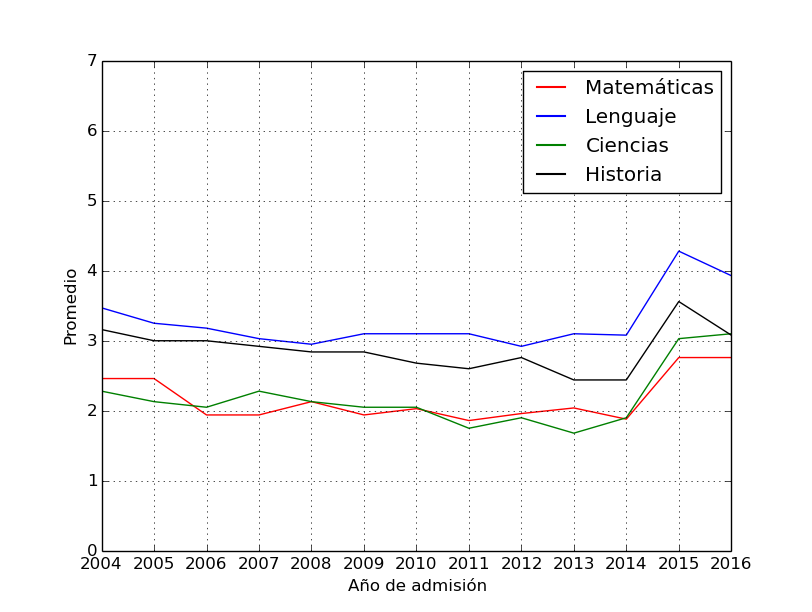
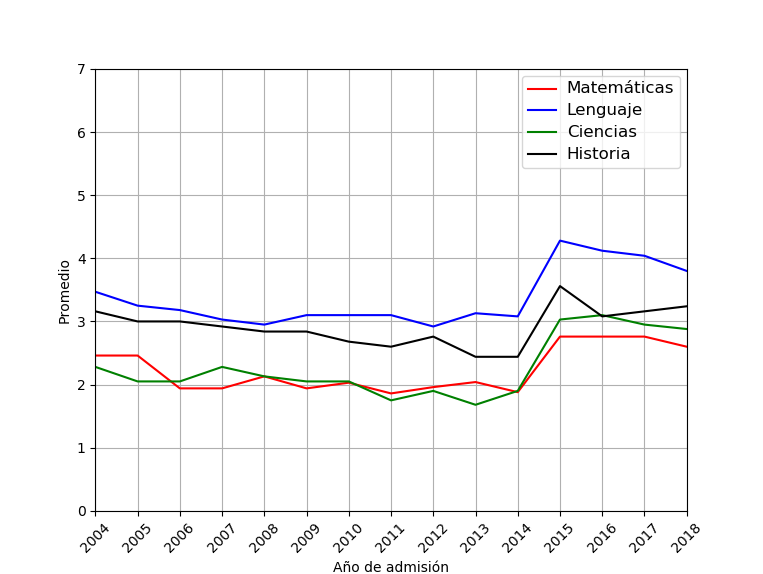
Actualizar hasta admisión 2018

diff --git a/notas.html b/notas.html
@@ -13,6 +13,12 @@ function convertir(){
 	var puntajesMatematicas = [];
 	var maximoAlcanzadoMatematicas = [];
 	var maximoTeoricoMatematicas = [];
+	puntajesMatematicas["2018"] = [850, 836, 822, 809, 795, 781, 770, 760, 752, 745, 737, 730, 725, 719, 713, 708, 703, 698, 694, 689, 685, 680, 676, 672, 668, 664, 660, 656, 652, 648, 644, 640, 636, 631, 627, 623, 619, 614, 610, 605, 601, 596, 591, 586, 581, 575, 570, 564, 558, 551, 544, 536, 527, 518, 507, 495, 481, 465, 448, 429, 408, 386, 363, 338, 312, 286, 259, 233, 223, 212, 202, 192, 181, 171, 160];
+	maximoAlcanzadoMatematicas["2018"] = 75;
+	maximoTeoricoMatematicas["2018"] = 75;
+	puntajesMatematicas["2017"] = [850, 833, 816, 799, 782, 766, 756, 747, 738, 732, 725, 718, 713, 707, 702, 696, 692, 688, 682, 678, 673, 669, 664, 660, 656, 651, 647, 642, 638, 634, 629, 625, 620, 616, 611, 606, 602, 597, 593, 587, 583, 578, 572, 568, 562, 556, 550, 543, 537, 530, 523, 514, 504, 494, 482, 469, 454, 439, 421, 403, 382, 360, 337, 312, 288, 264, 238, 212, 204, 197, 189, 181, 173, 165, 158];
+	maximoAlcanzadoMatematicas["2017"] = 75;
+	maximoTeoricoMatematicas["2017"] = 75;
 	puntajesMatematicas["2016"] = [850, 835, 819, 804, 789, 773, 762, 751, 743, 735, 727, 719, 713, 707, 702, 696, 691, 686, 681, 677, 672, 668, 662, 658, 653, 649, 646, 641, 637, 633, 628, 624, 620, 616, 612, 607, 603, 597, 593, 589, 584, 579, 573, 569, 563, 558, 552, 546, 539, 532, 525, 516, 507, 496, 485, 472, 458, 442, 425, 406, 386, 364, 342, 318, 294, 268, 244, 220, 211, 202, 194, 185, 176, 167, 159];
 	maximoAlcanzadoMatematicas["2016"] = 75;
 	maximoTeoricoMatematicas["2016"] = 75;
@@ -56,15 +62,21 @@ function convertir(){
 	var puntajesLenguaje = [];
 	var maximoAlcanzadoLenguaje = [];
 	var maximoTeoricoLenguaje = [];
+	puntajesLenguaje["2018"] = [850, 839, 829, 818, 807, 796, 786, 775, 758, 744, 729, 716, 704, 692, 684, 674, 663, 654, 646, 637, 628, 620, 612, 604, 596, 588, 580, 573, 566, 558, 551, 544, 537, 530, 523, 517, 510, 503, 496, 489, 481, 474, 466, 458, 450, 442, 433, 424, 415, 405, 395, 385, 374, 362, 349, 336, 321, 306, 290, 273, 256, 237, 218, 212, 205, 199, 193, 187, 181, 175, 168, 162, 156];
+	maximoAlcanzadoLenguaje["2018"] = 73;
+	maximoTeoricoLenguaje["2018"] = 75;
+	puntajesLenguaje["2017"] = [850, 837, 824, 812, 799, 786, 773, 760, 743, 726, 711, 697, 684, 672, 660, 650, 639, 630, 620, 612, 603, 595, 586, 579, 571, 563, 556, 549, 541, 534, 527, 521, 516, 508, 502, 494, 487, 480, 473, 465, 458, 451, 443, 436, 427, 419, 410, 402, 393, 383, 374, 364, 353, 342, 331, 318, 305, 292, 276, 260, 243, 227, 221, 214, 208, 201, 195, 188, 182, 176, 169, 163, 156];
+	maximoAlcanzadoLenguaje["2017"] = 73;
+	maximoTeoricoLenguaje["2017"] = 75;
 	puntajesLenguaje["2016"] = [850, 837, 824, 811, 798, 785, 772, 759, 746, 721, 706, 692, 680, 668, 657, 645, 634, 624, 615, 606, 597, 590, 582, 574, 567, 559, 551, 543, 537, 529, 521, 514, 507, 501, 493, 486, 480, 472, 465, 459, 452, 446, 439, 431, 425, 416, 409, 403, 394, 385, 375, 365, 355, 344, 332, 319, 306, 294, 281, 264, 248, 231, 212, 206, 201, 195, 189, 184, 178, 173, 167, 161, 156];
 	maximoAlcanzadoLenguaje["2016"] = 73;
-	maximoTeoricoLenguaje["2016"] = 80;
+	maximoTeoricoLenguaje["2016"] = 75;
 	puntajesLenguaje["2015"] = [850, 834, 818, 802, 786, 770, 755, 729, 710, 694, 681, 669, 657, 646, 636, 626, 616, 607, 598, 591, 582, 574, 568, 560, 552, 546, 539, 531, 525, 518, 512, 505, 498, 492, 485, 477, 471, 464, 457, 450, 442, 436, 428, 420, 411, 404, 395, 386, 377, 367, 358, 347, 336, 325, 312, 299, 286, 273, 257, 242, 227, 211, 206, 201, 196, 191, 186, 180, 175, 170, 165, 160, 155];
 	maximoAlcanzadoLenguaje["2015"] = 73;
-	maximoTeoricoLenguaje["2015"] = 80;
+	maximoTeoricoLenguaje["2015"] = 75;
 	puntajesLenguaje["2014"] = [850, 839, 829, 818, 807, 797, 786, 775, 762, 749, 736, 725, 716, 705, 695, 685, 677, 669, 661, 653, 646, 639, 633, 625, 618, 613, 606, 601, 594, 589, 582, 576, 571, 565, 560, 554, 549, 543, 537, 531, 526, 520, 514, 508, 503, 496, 491, 484, 477, 471, 464, 459, 452, 444, 438, 430, 422, 416, 407, 398, 389, 381, 372, 362, 352, 340, 329, 317, 305, 289, 274];
 	maximoAlcanzadoLenguaje["2014"] = 71;
-	maximoTeoricoLenguaje["2014"] = 80;
+	maximoTeoricoLenguaje["2014"] = 75;
 	puntajesLenguaje["2013"] = [850, 841, 832, 824, 815, 806, 797, 789, 780, 771, 762, 747, 736, 725, 715, 704, 694, 685, 678, 670, 662, 655, 647, 641, 635, 628, 622, 616, 611, 605, 600, 594, 589, 583, 579, 573, 568, 563, 558, 552, 548, 542, 537, 531, 527, 521, 516, 510, 506, 501, 494, 488, 483, 477, 472, 465, 460, 453, 448, 440, 433, 427, 420, 413, 405, 397, 389, 382, 373, 363, 353, 343, 333, 322, 310, 298, 284, 270];
 	maximoAlcanzadoLenguaje["2013"] = 78;
 	maximoTeoricoLenguaje["2013"] = 79; // se eliminó una pregunta
@@ -99,6 +111,12 @@ function convertir(){
 	var puntajesCiencias = [];
 	var maximoAlcanzadoCiencias = [];
 	var maximoTeoricoCiencias = [];
+	puntajesCiencias["2018"] = [850, 840, 830, 819, 809, 799, 789, 779, 768, 758, 750, 742, 735, 727, 721, 716, 709, 704, 699, 694, 689, 684, 678, 674, 668, 664, 660, 655, 651, 646, 642, 637, 633, 629, 625, 620, 615, 611, 606, 601, 596, 591, 586, 582, 576, 570, 564, 558, 551, 545, 537, 529, 523, 514, 506, 495, 484, 470, 457, 443, 425, 409, 392, 371, 349, 329, 308, 283, 257, 234, 226, 217, 209, 201, 192, 184, 175, 167, 158];
+	maximoAlcanzadoCiencias["2018"] = 80;
+	maximoTeoricoCiencias["2018"] = 80;
+	puntajesCiencias["2017"] = [850, 833, 817, 800, 783, 767, 755, 743, 732, 723, 714, 707, 701, 694, 688, 681, 677, 671, 666, 660, 656, 652, 648, 644, 639, 635, 630, 626, 623, 619, 615, 611, 606, 602, 597, 593, 590, 585, 582, 578, 574, 570, 565, 561, 556, 550, 546, 540, 535, 529, 524, 518, 512, 505, 497, 488, 480, 471, 462, 450, 437, 422, 406, 392, 373, 353, 333, 312, 288, 262, 238, 215, 208, 201, 193, 186, 179, 172, 164];
+	maximoAlcanzadoCiencias["2017"] = 80;
+	maximoTeoricoCiencias["2017"] = 80;
 	puntajesCiencias["2016"] = [850, 835, 820, 805, 790, 776, 762, 748, 737, 726, 717, 711, 703, 696, 691, 685, 679, 672, 668, 662, 657, 651, 647, 642, 638, 634, 629, 624, 619, 615, 611, 606, 602, 597, 593, 589, 583, 579, 574, 569, 564, 560, 554, 550, 545, 539, 534, 527, 521, 515, 509, 504, 497, 488, 481, 473, 464, 454, 443, 431, 420, 407, 391, 376, 361, 343, 322, 300, 282, 262, 241, 222, 214, 206, 198, 190, 182, 174, 166, 158];
 	maximoAlcanzadoCiencias["2016"] = 80;
 	maximoTeoricoCiencias["2016"] = 80;
@@ -148,6 +166,12 @@ function convertir(){
 	var puntajesHistoria = [];
 	var maximoAlcanzadoHistoria = [];
 	var maximoTeoricoHistoria = [];
+	puntajesHistoria["2018"] = [850, 838, 827, 815, 804, 792, 780, 766, 752, 739, 728, 718, 709, 700, 692, 685, 677, 670, 664, 657, 651, 645, 639, 633, 627, 622, 617, 611, 606, 600, 595, 590, 584, 579, 574, 570, 564, 559, 553, 547, 542, 536, 530, 523, 517, 510, 503, 496, 491, 483, 475, 466, 457, 447, 436, 424, 411, 398, 382, 366, 348, 329, 308, 285, 262, 238, 229, 221, 212, 203, 194, 185, 176, 168, 159];
+	maximoAlcanzadoHistoria["2018"] = 75;
+	maximoTeoricoHistoria["2018"] = 75;
+	puntajesHistoria["2017"] = [850, 838, 826, 815, 803, 791, 780, 768, 756, 744, 733, 723, 714, 705, 697, 690, 682, 675, 669, 662, 656, 650, 644, 638, 633, 627, 620, 615, 611, 605, 600, 594, 589, 583, 579, 573, 568, 563, 558, 552, 547, 541, 536, 530, 524, 518, 512, 505, 498, 492, 485, 477, 469, 460, 447, 433, 420, 407, 391, 374, 356, 336, 315, 292, 268, 243, 217, 210, 202, 195, 187, 180, 172, 165, 157];
+	maximoAlcanzadoHistoria["2017"] = 75;
+	maximoTeoricoHistoria["2017"] = 75;
 	puntajesHistoria["2016"] = [850, 836, 823, 809, 796, 782, 769, 756, 744, 733, 723, 713, 705, 697, 690, 683, 677, 670, 664, 658, 652, 647, 641, 636, 631, 626, 620, 616, 612, 606, 602, 596, 592, 587, 582, 578, 572, 568, 562, 557, 551, 547, 541, 535, 529, 523, 517, 509, 503, 495, 486, 477, 469, 458, 447, 435, 421, 407, 392, 374, 356, 337, 316, 293, 270, 245, 231, 222, 213, 204, 195, 186, 177, 168, 159];
 	maximoAlcanzadoHistoria["2016"] = 75;
 	maximoTeoricoHistoria["2016"] = 75;
@@ -320,6 +344,8 @@ function cambiar_ano(){
 			<div>
 				Selecciona el a&ntilde;o que diste la prueba:
 				<select id="ano" onchange="cambiar_ano();">
+					<option value="2018">PSU 2017 - admisi&oacute;n 2018</option>
+					<option value="2017">PSU 2016 - admisi&oacute;n 2017</option>
 					<option value="2016">PSU 2015 - admisi&oacute;n 2016</option>
 					<option value="2015">PSU 2014 - admisi&oacute;n 2015</option>
 					<option value="2014">PSU 2013 - admisi&oacute;n 2014</option>
@@ -387,7 +413,7 @@ function cambiar_ano(){
 		</form>
 		<p>
 			Convierte puntajes PSU a nota entre 1 y 7 con una escala de 50% y 60%.<br />
-			Tablas de puntajes obtenidas de <a href="http://psu.demre.cl/proceso-admision/factores-seleccion/tabla-transformacion-puntajes">la p&aacute;gina del Demre</a>.<br />
+			Tablas de puntajes obtenidas de <a href="https://psu.demre.cl/index">la p&aacute;gina del Demre</a>.<br />
 			Todo el c&aacute;lculo se hace en Javascript en esta misma p&aacute;gina, por si alguien quiere revisarlo.<br />
 			Reclamos, comentarios quejas y otros al mail jisaa [arroba] puc.cl
 		</p>
@@ -401,8 +427,11 @@ function cambiar_ano(){
 			Por último un gráfico con más detalle de la prueba de matemáticas del año 2015 (admisión 2016).<br />
 			<img src="detalleMat2016.png" alt="Detalle prueba matemáticas" width="800" />
 		</p>
-		<p>Fuentes a&ntilde;os anteriores:</p>
-		<ul>
+		<p>Fuentes de datos:</p>
+		<ul style="font-size:75%">
+			<li><a href="https://psu.demre.cl/proceso-admision/factores-seleccion/tabla-transformacion-puntajes">Estad&iacute;sticas DEMRE admisi&oacute;n 2018</a></li>
+			<li><a href="https://psu.demre.cl/proceso-admision/factores-seleccion/tabla-transformacion-puntajes-p2017">Estad&iacute;sticas DEMRE admisi&oacute;n 2017</a></li>
+			<li><a href="http://www.psu.demre.cl/estadisticas/documentos-2016">Estad&iacute;sticas DEMRE admisi&oacute;n 2016</a></li>
 			<li><a href="http://www.psu.demre.cl/estadisticas/documentos-2015">Estad&iacute;sticas DEMRE admisi&oacute;n 2015</a></li>
 			<li><a href="http://web.archive.org/web/20150112033430/http://portaldemre.demre.cl/tabla_matematica_p2014.htm">Estad&iacute;sticas DEMRE admisi&oacute;n 2014</a></li>
 			<li><a href="http://www.psu.demre.cl/estadisticas/documentos-2013">Estad&iacute;sticas DEMRE admisi&oacute;n 2013</a></li>
